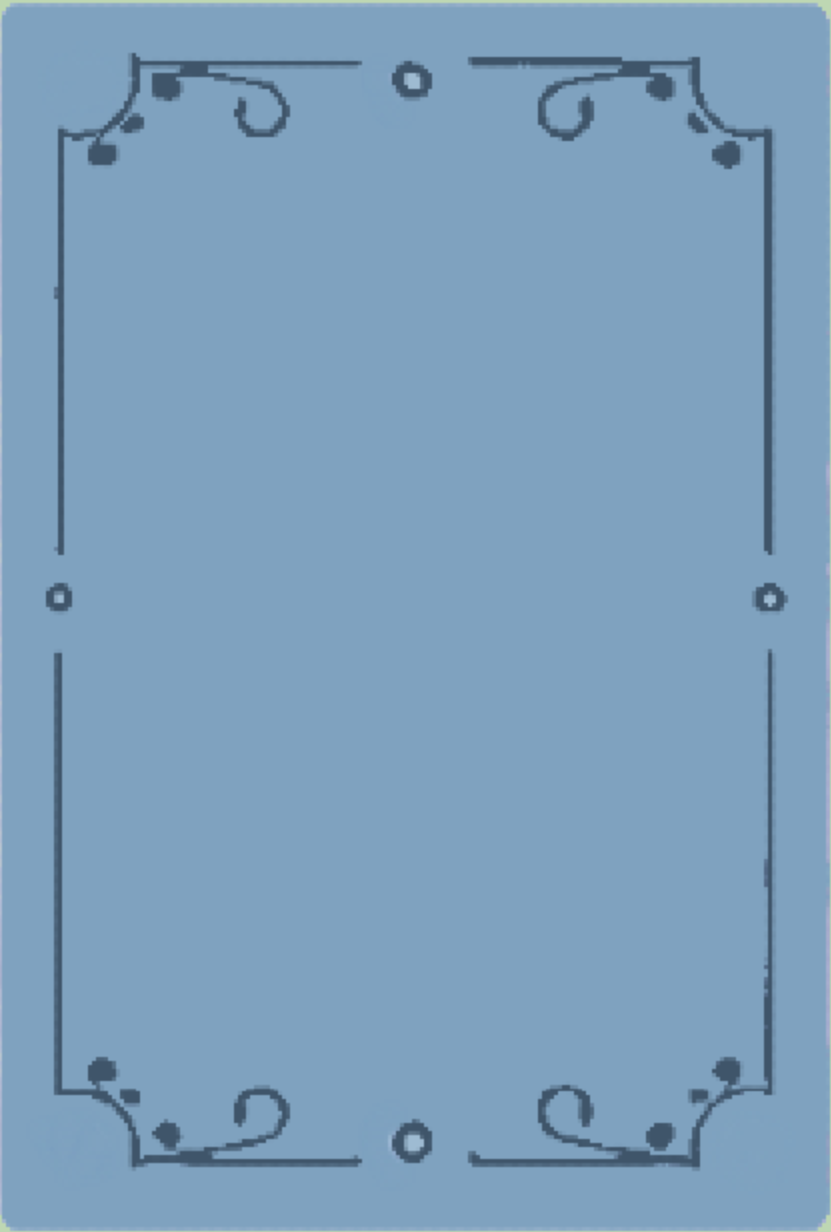
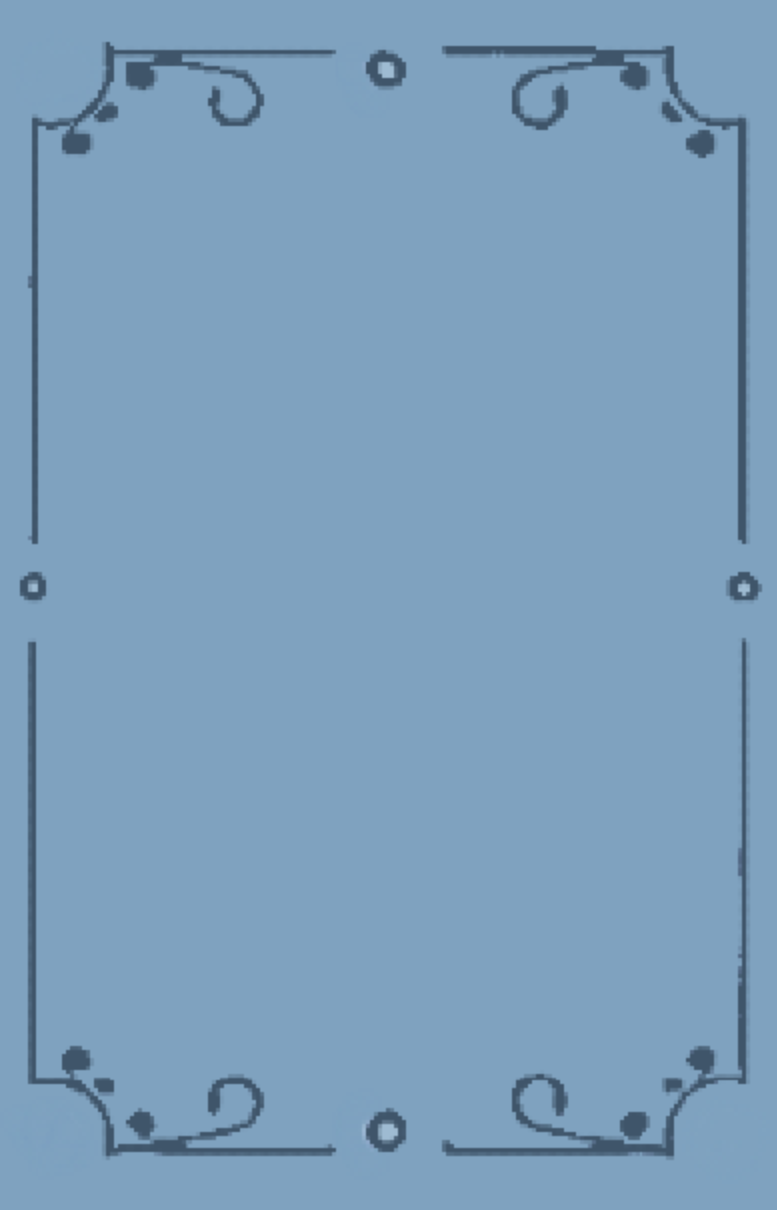
applied cover images

Changed region(s): [[0.0, 0.0, 1.0, 1.0], [0.4633, 0.8868, 0.5251, 0.9479], [0.0, 0.9785, 0.0309, 1.0]]

diff --git a/src/style/ColorMap.ts b/src/style/ColorMap.ts
@@ -8,44 +8,46 @@
  */
 const ColorMap: Record<string, string> = {
     blue: "bg-blue-400",
-    red: "bg-red-400",
     green: "bg-green-800",
     yellow: "bg-yellow-400",
     purple: "bg-purple-400",
-    orange: "bg-orange-400",
     pink: "bg-pink-300",
 
     dblue: "bg-blue-900",
-    dred: "bg-red-900",
     dgreen: "bg-green-950",
     dyellow: "bg-yellow-700",
     dpurple: "bg-purple-900",
-    dorange: "bg-orange-900",
     dpink: "bg-pink-900",
 
     tblue: "text-blue-900",
-    tred: "text-red-900",
     tgreen: "text-green-950",
     tyellow: "text-yellow-900",
     tpurple: "text-purple-900",
-    torange: "text-orange-900",
     tpink: "text-pink-900",
 
     dtblue: "text-blue-300",
-    dtred: "text-red-300",
     dtgreen: "text-green-300",
     dtyellow: "text-yellow-300",
     dtpurple: "text-purple-300",
-    dtorange: "text-orange-300",
     dtpink: "text-pink-300",
 
     bblue: "border-blue-900",
-    bred: "border-red-900",
     bgreen: "border-green-900",
     byellow: "border-yellow-900",
     bpurple: "border-purple-900",
-    borange: "border-orange-900",
     bpink: "border-purple-900",
+
+    pcblue: "bg-blueCover",
+    pcgreen: "bg-greenCover",
+    pcyellow: "bg-yellowCover",
+    pcpurple: "bg-purpleCover",
+    pcpink: "bg-pinkCover",
+
+    psblue: "bg-blueSpine",
+    psgreen: "bg-greenSpine",
+    psyellow: "bg-yellowSpine",
+    pspurple: "bg-purpleSpine",
+    pspink: "bg-pinkSpine",
 
 
 };

diff --git a/src/components/Shelf.tsx b/src/components/Shelf.tsx
@@ -15,10 +15,10 @@ const Shelf: React.FC = () => {
             <div className={" max-w-screen-lg flex flex-wrap justify-center"}>
                 <Book title={"The Secret Garden"} color={"green"}></Book>
                 <Book title={"The Little Princess"} color={"pink"}></Book>
-                <Book title={"Peter Pan"} color={"blue"}></Book>
-                <Book title={"Harry potter and the goblet of fire"} color={"yellow"}></Book>
-                <BookSpine title={"great gatsby"} color={"purple"}></BookSpine>
-                <BookSpine title={"great gatsby"} color={"blue"} ></BookSpine>
+                <Book title={"Peter Pan"} color={"yellow"}></Book>
+                <Book title={"Harry potter and the goblet of fire"} color={"blue"}></Book>
+                <BookSpine title={"great gatsby"} color={"pink"}></BookSpine>
+                <BookSpine title={"great gatsby"} color={"yellow"} ></BookSpine>
                 <div className={" w-full h-8 rounded bg-woodTexture mb-5 border border-brown-400 "}></div>
             </div>
         </div>

diff --git a/src/components/BookSpine.tsx b/src/components/BookSpine.tsx
@@ -9,10 +9,8 @@ interface BookProps {
 
 const BookSpine: React.FC<BookProps> = ({title, color}) => {
     return (
-        <div className={"relative flex flex-col h-64 w-12 rounded-sm mt-3 mb-0 border justify-center items-center "+ ColorMap["b" + color] +" hover:-translate-y-2 " + ColorMap[color]}>
-            <div className={"h-2 w-full rounded translate-y-3 self-start "+ColorMap["d"+color]}></div>
+        <div className={"relative flex flex-col h-[270px] w-16 rounded-sm mt-3 mb-0 justify-center items-center hover:-translate-y-2 bg-cover " + ColorMap["ps"+color]}>
             <h2 className={"absolute inset-0 flex items-center justify-center rotate-90 font-bold text-xl whitespace-nowrap overflow-visible " + ColorMap["t"+color]}>{title}</h2>
-            <div className={"h-2 w-full rounded -translate-y-3 mt-auto "+ColorMap["d"+color]}></div>
         </div>
     );
 }

diff --git a/src/components/Book.tsx b/src/components/Book.tsx
@@ -14,9 +14,9 @@ const Book: React.FC<BookProps> = ({
 
 
     return (
-        <div className={"bg-white flex pr-1 pt-1 shadow-md rounded h-64 w-48 border-2 border-solid m-3 mb-0 hover:-translate-y-2 " + ColorMap["b" + color]}>
+        <div className={"bg-white flex pr-1 pt-1 shadow-md rounded h-[270px] w-48 border-2 border-solid m-3 mb-0 hover:-translate-y-2 " + ColorMap["b" + color]}>
             <div className={"w-5 h-full " + ColorMap["d"+color]}></div>
-            <div className={"rounded-r flex flex-wrap h-full flex-grow " + ColorMap[color]}>
+            <div className={"rounded-r flex flex-wrap h-full flex-grow bg-cover " + ColorMap["pc"+color]}>
 
                 <div className="flex flex-grow justify-center h-full w- bg-none">
                     <h2 className={"m-4 text-center mt-16 font-bold text-2xl " + ColorMap["t"+color] }>{title}</h2>

diff --git a/tailwind.config.js b/tailwind.config.js
@@ -1,3 +1,5 @@
+import * as url from "node:url";
+
 /** @type {import('tailwindcss').Config} */
 export default {
   content: [
@@ -8,6 +10,17 @@ export default {
     extend: {
       backgroundImage:{
         'woodTexture': "url('./woodTexture.png')",
+        'blueCover': "url('./blueCover.png')",
+        'blueSpine': "url('./blueSpine.png')",
+        'greenCover': "url('./greenCover.png')",
+        'greenSpine': "url('./greenSpine.png')",
+        'purpleCover': "url('./purpleCover.png')",
+        'purpleSpine': "url('./purpleSpine.png')",
+        'yellowCover': "url('./yellowCover.png')",
+        'yellowSpine': "url('./yellowSpine.png')",
+        'pinkCover': "url('./pinkCover.png')",
+        'pinkSpine': "url('./pinkSpine.png')",
+
       },
       colors: {
         pink: {

diff --git a/src/App.tsx b/src/App.tsx
@@ -1,5 +1,5 @@
 //import { useState } from 'react'
-import './App.css';
+import './style/App.css';
 import Book from './components/Book.tsx';
 import OpenBook from './components/OpenBook.tsx';
 import Shelf from './components/Shelf.tsx';
